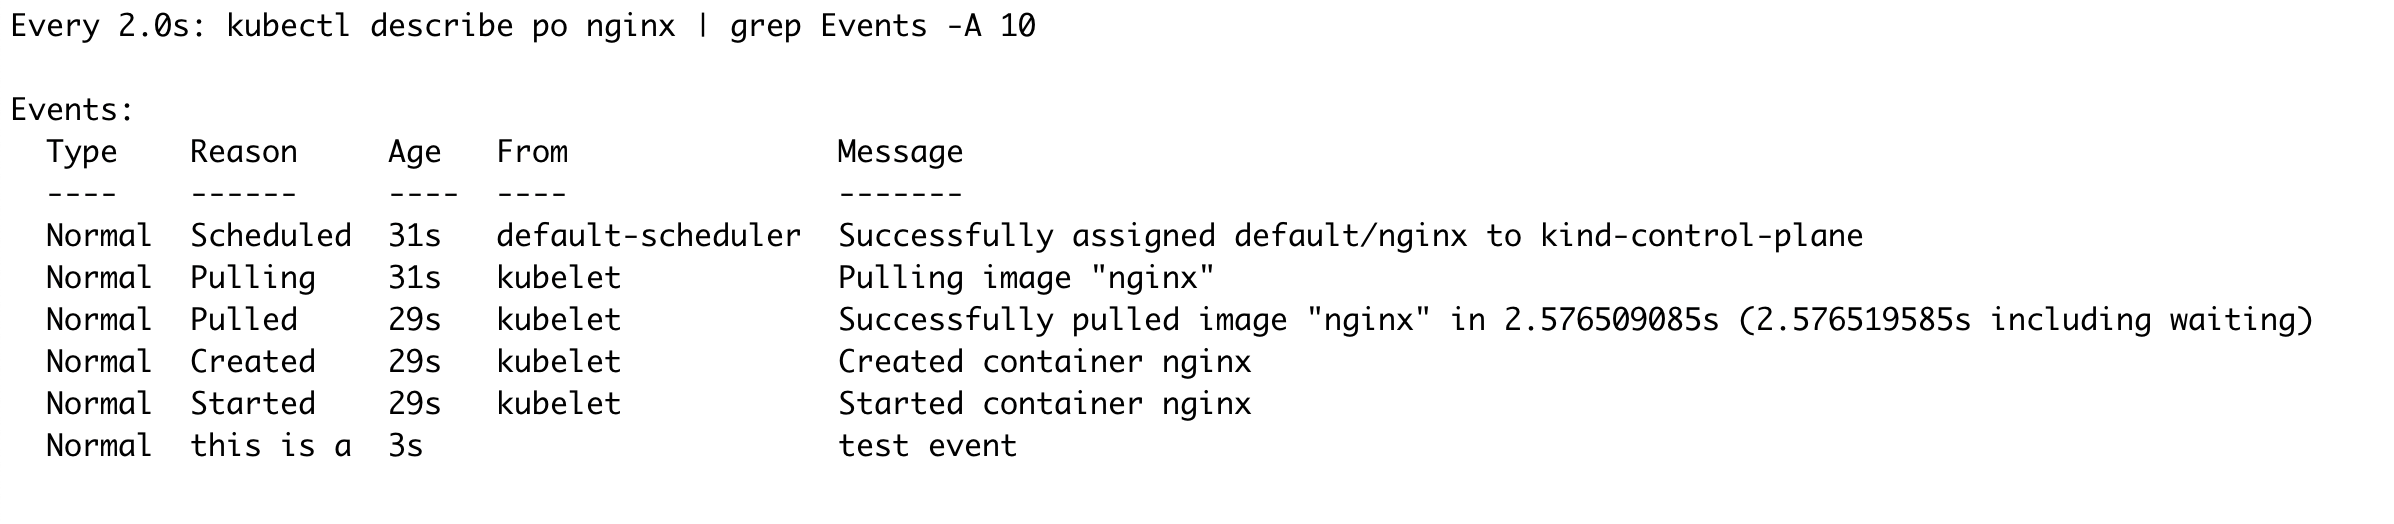
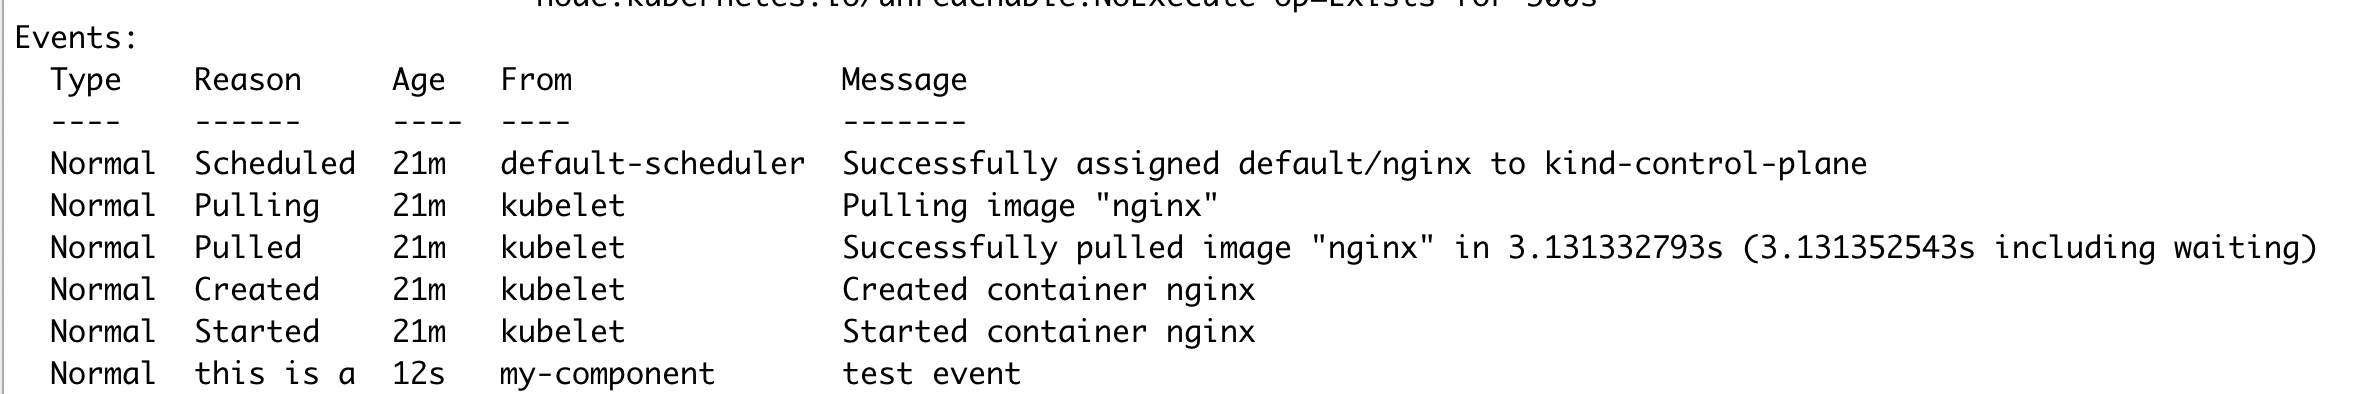
update code with event source

diff --git a/main.go b/main.go
@@ -6,7 +6,6 @@ import (
 	"time"
 
 	log "github.com/sirupsen/logrus"
-	corev1 "k8s.io/api/core/v1"
 	v1 "k8s.io/api/core/v1"
 	metav1 "k8s.io/apimachinery/pkg/apis/meta/v1"
 	"k8s.io/apimachinery/pkg/runtime"
@@ -43,15 +42,15 @@ func main() {
 	}
 
 	scheme := runtime.NewScheme()
-	_ = corev1.AddToScheme(scheme)
+	_ = v1.AddToScheme(scheme)
 
 	// all the good events stuff is here
 	eventBroadcaster := record.NewBroadcaster()
 	// logs events to stdout at V4 level
 	eventBroadcaster.StartStructuredLogging(1)
 	eventBroadcaster.StartRecordingToSink(&typedv1core.EventSinkImpl{Interface: clientset.CoreV1().Events("")})
-	eventRecorder := eventBroadcaster.NewRecorder(scheme, v1.EventSource{})
-	eventRecorder.Event(pod, corev1.EventTypeNormal, "this is a", "test event")
+	eventRecorder := eventBroadcaster.NewRecorder(scheme, v1.EventSource{Component: "my-component"})
+	eventRecorder.Event(pod, v1.EventTypeNormal, "this is a", "test event")
 	// uncomment this to log a warning type event
 	// eventRecorder.Event(pod, corev1.EventTypeWarning, "this is a", "test event")
 	time.Sleep(time.Hour * 1)
